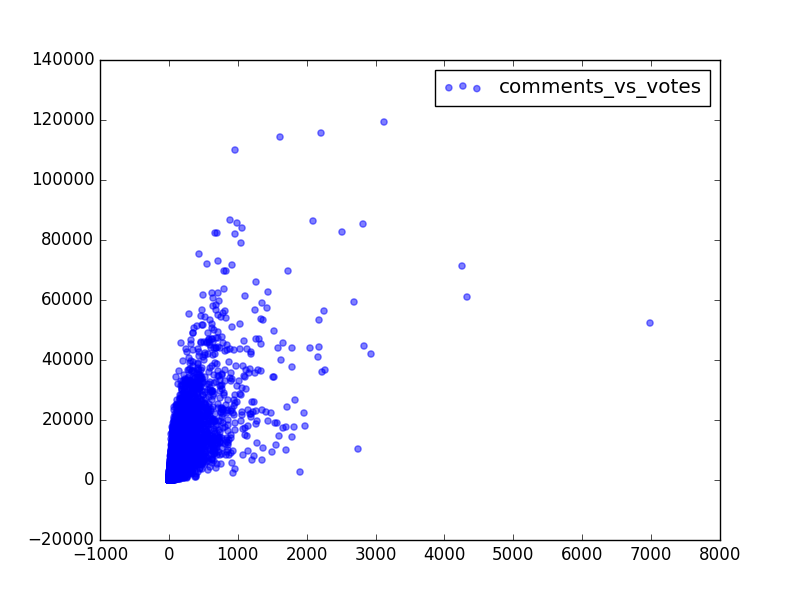
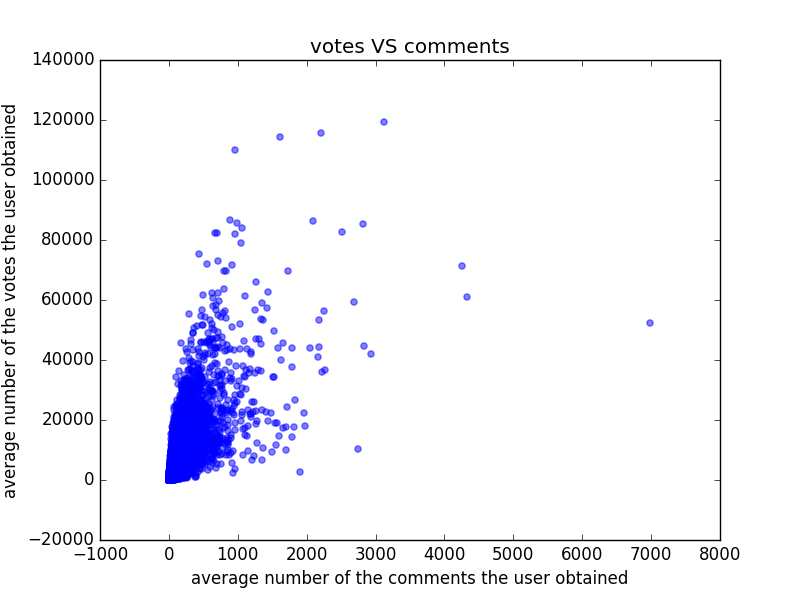
添加对同一个user的不同feature的数据相关分析和作图

Changed region(s): [[0.375, 0.06, 0.9062, 0.18], [0.0, 0.18, 0.0312, 0.84], [0.25, 0.93, 0.7812, 0.99]]

diff --git a/username.py b/username.py
@@ -5,7 +5,7 @@ import numpy as np
 import matplotlib.pyplot as plt
 import os
 USER_DIR = 'user_feature'
-PIC_DIR = 'pic'
+PIC_DIR = 'pics'
 def _load_each_user_profile():
     with open(os.path.join(USER_DIR,'each_user_profile.json'),'r') as f:
         each_user_profile = json.load(f)
@@ -108,7 +108,7 @@ def _username():
     with open(os.path.join(USER_DIR,'all_user_post_num.json'),'w') as f:
         json.dump(dict(user_post_num),f)
 
-def _plot():
+def _evaluate():
     each_user_profile = _load_each_user_profile()
     post_list = []
     comment_list = []
@@ -117,17 +117,27 @@ def _plot():
         post_list.append(user.get('num_of_post'))
         comment_list.append(user.get('avg_comments'))
         votes_list.append(user.get('avg_votes'))
-        
-    plt.scatter(x=post_list,y=votes_list,alpha=0.5,color='r',marker='+')
-    #plt.scatter(x=comment_list,y=votes_list,alpha=0.5,color='b',marker='o')
-    plt.legend(['post_num_vs_votes'])
-    plt.savefig(os.path.join(PIC_DIR,'post_num_vs_votes.png'),format='png')
+    
+    result = {"post_num_vs_votes":np.corrcoef(post_list,votes_list).tolist(),
+    "post_num_vs_comments": np.corrcoef(post_list,comment_list).tolist(),
+    "votes_vs_comments":np.corrcoef(votes_list,comment_list).tolist()
+    }
+    with open(os.path.join(USER_DIR,'correlation_matrix.json'),'w') as fp:
+        json.dump(result,fp)
+
+    #plt.scatter(x=post_list,y=comment_list,alpha=0.5,color='r',marker='+')
+    plt.scatter(x=comment_list,y=votes_list,alpha=0.5,color='b',marker='o')
+    #plt.xlabel("number of the posts from a user")
+    plt.ylabel("average number of the votes the user obtained")
+    plt.xlabel("average number of the comments the user obtained")
+    plt.title("votes VS comments")
+    plt.savefig(os.path.join(PIC_DIR,'comments_vs_votes.png'),format='png')
 
 if __name__ == '__main__':
     #_username()
-    #_plot()
-    gen_feature("number_of_comments")
-    gen_feature("total_votes")
+    _evaluate()
+    #gen_feature("number_of_comments")
+    #gen_feature("total_votes")
 
 
     
